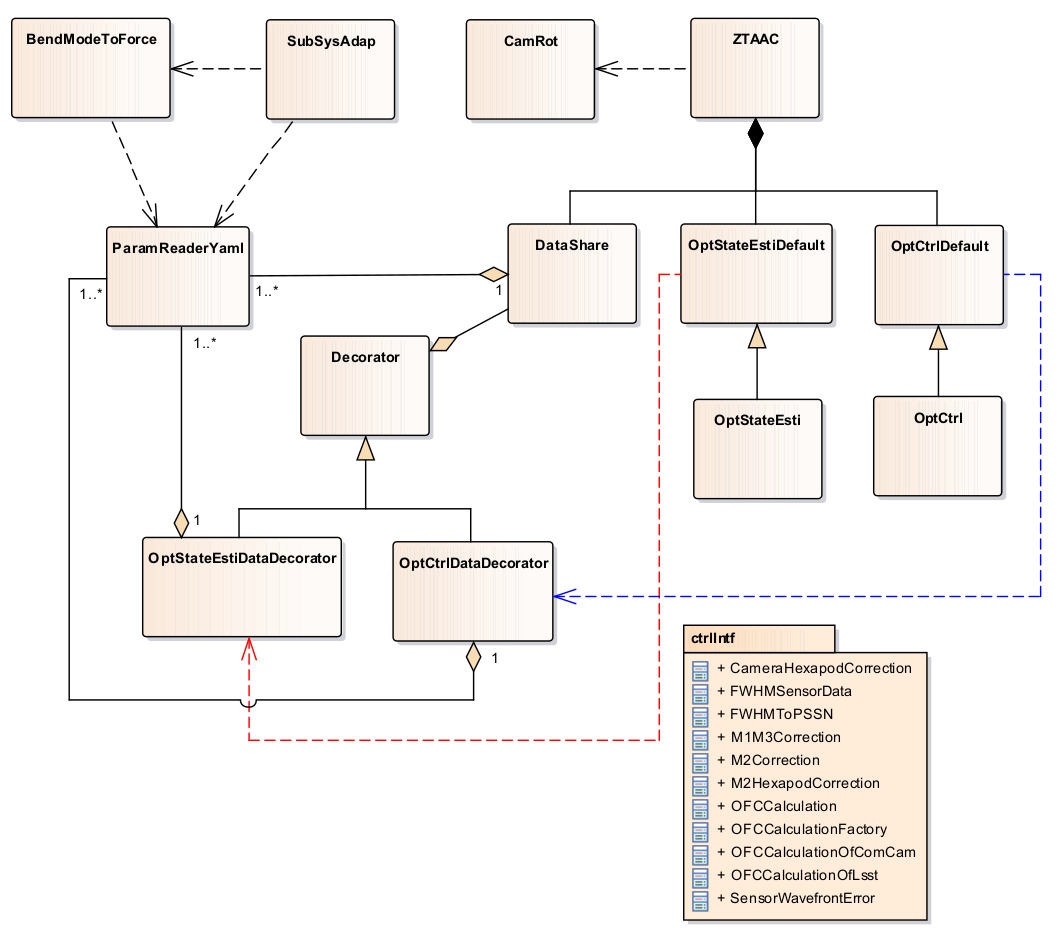
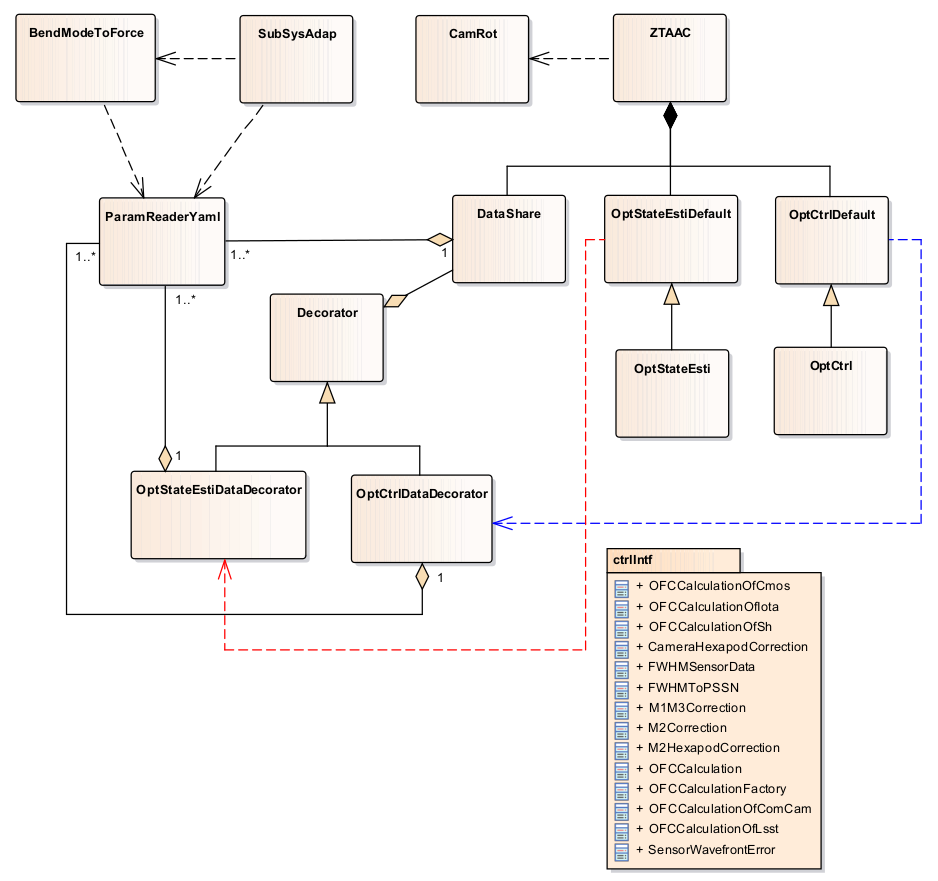
Support the IOTA in control interface classes.

Changed region(s): [[0.0618, 0.0, 0.9893, 1.0], [0.0, 0.0, 0.4019, 0.1532], [0.9584, 0.5823, 0.9893, 0.6436]]

diff --git a/python/lsst/ts/ofc/ctrlIntf/OFCCalculationOfIota.py b/python/lsst/ts/ofc/ctrlIntf/OFCCalculationOfIota.py
@@ -1,0 +1,55 @@
+import os
+
+from lsst.ts.ofc.ctrlIntf.OFCCalculation import OFCCalculation
+from lsst.ts.ofc.ctrlIntf.FWHMToPSSN import FWHMToPSSN
+
+
+class OFCCalculationOfIota(OFCCalculation):
+    """The concrete child class of OFCCalculation of IOTA."""
+
+    def __init__(self, instName, specificInstDirName):
+        """Construct an OFC calculation of IOTA.
+
+        IOTA: Initial optical test assembly.
+
+        Parameters
+        ----------
+        instName : enum 'InstName'
+            Instrument name.
+        specificInstDirName : str
+            Specific instrument directory name.
+        """
+
+        super(OFCCalculationOfIota, self).__init__(FWHMToPSSN(), instName)
+
+        # Set the idx of zk and DOF
+        self._setZkAndDofIdxOfIota(specificInstDirName, instName)
+
+    def _setZkAndDofIdxOfIota(self, specificInstDirName, instName):
+        """Set the Z3-Zn and DOF indexes of specific IOTA camera.
+
+        DOF: degree of freedom.
+        IOTA: Initial optical test assembly.
+
+        Parameters
+        ----------
+        specificInstDirName : str
+            Specific instrument directory name.
+        instName : enum 'InstName'
+            Instrument name.
+        """
+
+        configDir = self.ztaac.dataShare.getConfigDir()
+        zkAndDofIdxArraySetFile = self.ztaac.dataShare._zkAndDofIdxArraySetFile
+        zkAndDofIdxArraySetFilePath = zkAndDofIdxArraySetFile.getFilePath()
+        zkAndDofIdxArraySetFileName = os.path.basename(zkAndDofIdxArraySetFilePath)
+
+        specificZkAndDofIdxArraySetFileName = os.path.join(
+            specificInstDirName, zkAndDofIdxArraySetFileName)
+        self.ztaac.dataShare.config(
+            configDir, instName,
+            zkAndDofIdxArraySetFileName=specificZkAndDofIdxArraySetFileName)
+
+
+if __name__ == "__main__":
+    pass

diff --git a/python/lsst/ts/ofc/ctrlIntf/OFCCalculationFactory.py b/python/lsst/ts/ofc/ctrlIntf/OFCCalculationFactory.py
@@ -1,6 +1,8 @@
 from lsst.ts.ofc.Utility import InstName
 from lsst.ts.ofc.ctrlIntf.OFCCalculationOfLsst import OFCCalculationOfLsst
 from lsst.ts.ofc.ctrlIntf.OFCCalculationOfComCam import OFCCalculationOfComCam
+from lsst.ts.ofc.ctrlIntf.OFCCalculationOfSh import OFCCalculationOfSh
+from lsst.ts.ofc.ctrlIntf.OFCCalculationOfCmos import OFCCalculationOfCmos
 
 
 class OFCCalculationFactory(object):
@@ -22,7 +24,8 @@ class OFCCalculationFactory(object):
 
         Returns
         -------
-        OFCCalculationOfLsst or OFCCalculationOfComCam
+        OFCCalculationOfLsst, OFCCalculationOfComCam, OFCCalculationOfSh, or
+        OFCCalculationOfCmos
             Concrete child class of OFCCalculation class.
 
         Raises
@@ -35,6 +38,10 @@ class OFCCalculationFactory(object):
             return OFCCalculationOfLsst()
         elif (instName == InstName.COMCAM):
             return OFCCalculationOfComCam()
+        elif (instName == InstName.SH):
+            return OFCCalculationOfSh()
+        elif (instName == InstName.CMOS):
+            return OFCCalculationOfCmos()
         else:
             raise ValueError("This instrument is not supported.")
 

diff --git a/tests/ctrlIntf/test_oFCCalculationFactory.py b/tests/ctrlIntf/test_oFCCalculationFactory.py
@@ -4,6 +4,8 @@ from lsst.ts.ofc.Utility import InstName
 from lsst.ts.ofc.ctrlIntf.OFCCalculationFactory import OFCCalculationFactory
 from lsst.ts.ofc.ctrlIntf.OFCCalculationOfLsst import OFCCalculationOfLsst
 from lsst.ts.ofc.ctrlIntf.OFCCalculationOfComCam import OFCCalculationOfComCam
+from lsst.ts.ofc.ctrlIntf.OFCCalculationOfSh import OFCCalculationOfSh
+from lsst.ts.ofc.ctrlIntf.OFCCalculationOfCmos import OFCCalculationOfCmos
 
 
 class TestOFCCalculationFactory(unittest.TestCase):
@@ -20,6 +22,16 @@ class TestOFCCalculationFactory(unittest.TestCase):
         calculator = OFCCalculationFactory.getCalculator(InstName.COMCAM)
 
         self.assertTrue(isinstance(calculator, OFCCalculationOfComCam))
+
+    def testGetCalculatorOfSh(self):
+
+        calculator = OFCCalculationFactory.getCalculator(InstName.SH)
+        self.assertTrue(isinstance(calculator, OFCCalculationOfSh))
+
+    def testGetCalculatorOfCmos(self):
+
+        calculator = OFCCalculationFactory.getCalculator(InstName.CMOS)
+        self.assertTrue(isinstance(calculator, OFCCalculationOfCmos))
 
     def testGetCalculatorOfWrongInst(self):
 

diff --git a/tests/ctrlIntf/test_oFCCalculationOfIota.py b/tests/ctrlIntf/test_oFCCalculationOfIota.py
@@ -1,0 +1,34 @@
+import numpy as np
+import unittest
+
+from lsst.ts.ofc.Utility import InstName
+from lsst.ts.ofc.ctrlIntf.OFCCalculationOfIota import OFCCalculationOfIota
+
+
+class TestOFCCalculationOfIota(unittest.TestCase):
+    """Test the OFCCalculationOfIota class."""
+
+    def setUp(self):
+
+        self.ofcCalculation = OFCCalculationOfIota(InstName.COMCAM, "sh")
+
+    def testZkAndDofIdxFromConfigFile(self):
+
+        dataShare = self.ofcCalculation.ztaac.dataShare
+        zn3Idx = dataShare.getZn3Idx()
+        dofIdx = dataShare.getDofIdx()
+
+        ansZn3Idx = np.arange(19)
+        ansDofIdx = np.arange(10)
+
+        deltaZn3 = np.sum(np.abs(zn3Idx - ansZn3Idx))
+        deltaDof = np.sum(np.abs(dofIdx - ansDofIdx))
+
+        self.assertEqual(deltaZn3, 0)
+        self.assertEqual(deltaDof, 0)
+
+
+if __name__ == "__main__":
+
+    # Run the unit test
+    unittest.main()

diff --git a/python/lsst/ts/ofc/ctrlIntf/OFCCalculationOfCmos.py b/python/lsst/ts/ofc/ctrlIntf/OFCCalculationOfCmos.py
@@ -1,0 +1,19 @@
+from lsst.ts.ofc.Utility import InstName
+from lsst.ts.ofc.ctrlIntf.OFCCalculationOfIota import OFCCalculationOfIota
+
+
+class OFCCalculationOfCmos(OFCCalculationOfIota):
+    """The concrete child class of OFCCalculation of the CMOS"""
+
+    def __init__(self):
+        """Construct an OFC calculation of CMOS camera.
+
+        CMOS: Complementary metal–oxide–semiconductor.
+        """
+
+        # Use the data in ComCam
+        super(OFCCalculationOfCmos, self).__init__(InstName.COMCAM, "cmos")
+
+
+if __name__ == "__main__":
+    pass

diff --git a/python/lsst/ts/ofc/ctrlIntf/OFCCalculationOfSh.py b/python/lsst/ts/ofc/ctrlIntf/OFCCalculationOfSh.py
@@ -1,0 +1,19 @@
+from lsst.ts.ofc.Utility import InstName
+from lsst.ts.ofc.ctrlIntf.OFCCalculationOfIota import OFCCalculationOfIota
+
+
+class OFCCalculationOfSh(OFCCalculationOfIota):
+    """The concrete child class of OFCCalculation of the Shack-Hartmann"""
+
+    def __init__(self):
+        """Construct an OFC calculation of S.H. camera.
+
+        S.H.: Shack-Hartmann.
+        """
+
+        # Use the data in ComCam
+        super(OFCCalculationOfSh, self).__init__(InstName.COMCAM, "sh")
+
+
+if __name__ == "__main__":
+    pass

diff --git a/python/lsst/ts/ofc/ctrlIntf/OFCCalculationOfComCam.py b/python/lsst/ts/ofc/ctrlIntf/OFCCalculationOfComCam.py
@@ -7,6 +7,10 @@ class OFCCalculationOfComCam(OFCCalculation):
     """The concrete child class of OFCCalculation of the ComCam"""
 
     def __init__(self):
+        """Construct an OFC calculation of ComCam.
+
+        ComCam: Commissioning camera.
+        """
         super(OFCCalculationOfComCam, self).__init__(FWHMToPSSN(),
                                                      InstName.COMCAM)
 

diff --git a/python/lsst/ts/ofc/ctrlIntf/OFCCalculationOfLsst.py b/python/lsst/ts/ofc/ctrlIntf/OFCCalculationOfLsst.py
@@ -7,6 +7,7 @@ class OFCCalculationOfLsst(OFCCalculation):
     """The concrete child class of OFCCalculation of the LSST."""
 
     def __init__(self):
+        """Construct an OFC calculation of LSST."""
         super(OFCCalculationOfLsst, self).__init__(FWHMToPSSN(), InstName.LSST)
 
 

diff --git a/python/lsst/ts/ofc/Utility.py b/python/lsst/ts/ofc/Utility.py
@@ -8,6 +8,8 @@ from lsst.utils import getPackageDir
 class InstName(Enum):
     LSST = 1
     COMCAM = 2
+    SH = 3
+    CMOS = 4
 
 
 class DofGroup(Enum):

diff --git a/doc/Content.md b/doc/Content.md
@@ -25,6 +25,9 @@
   - **OFCCalculation**: OFC calculation default class as the parent class of concrete child classes for different instrument. The user shall get the concrete object by the creation method of OFCCalculationFactory class.
   - **OFCCalculationOfLsst**: OFC calculation of LSST class. This is the concrete child class of OFCCalculation class.
   - **OFCCalculationOfComCam**: OFC calculation of ComCam class. This is the concrete child class of OFCCalculation class.
+  - **OFCCalculationOfIota**: OFC calculation of IOTA class. This is a child class of OFCCalculation class.
+  - **OFCCalculationOfSh**: OFC calculation of Shack-Hartmann camera class. This is the concrete child class of OFCCalculationOfIota class.
+  - **OFCCalculationOfCmos**: OFC calculation of CMOS class. This is the concrete child class of OFCCalculationOfIota class.
   - **SensorWavefrontError**: Sensor wavefront error class. This class contains the information of sensor Id and related wavefront error. The details will be populated by the MTAOS and pass to the child class of OFCCalculation to do the calculation.
   - **CameraHexapodCorrection**: Camera hexapod correction class. This class contains the position correction to let the MTAOS to apply to subsystem.
   - **M2HexapodCorrection**: M2 hexapod correction class. This class contains the position correction to let the MTAOS to apply to subsystem.

diff --git a/doc/VersionHistory.md b/doc/VersionHistory.md
@@ -1,7 +1,7 @@
 # Version History
 
 *Version 1.1.6* \
-*Add the unit tests of control interface classes and fix the minor errors.*
+*Add the unit tests of control interface classes and fix the minor errors. Add the Shack-Hartmann and CMOS cameras.*
 
 *Version 1.1.5* \
 *Add the classes to translate the Zemax coordinate to subsystem's coordinate and vice versa.*
